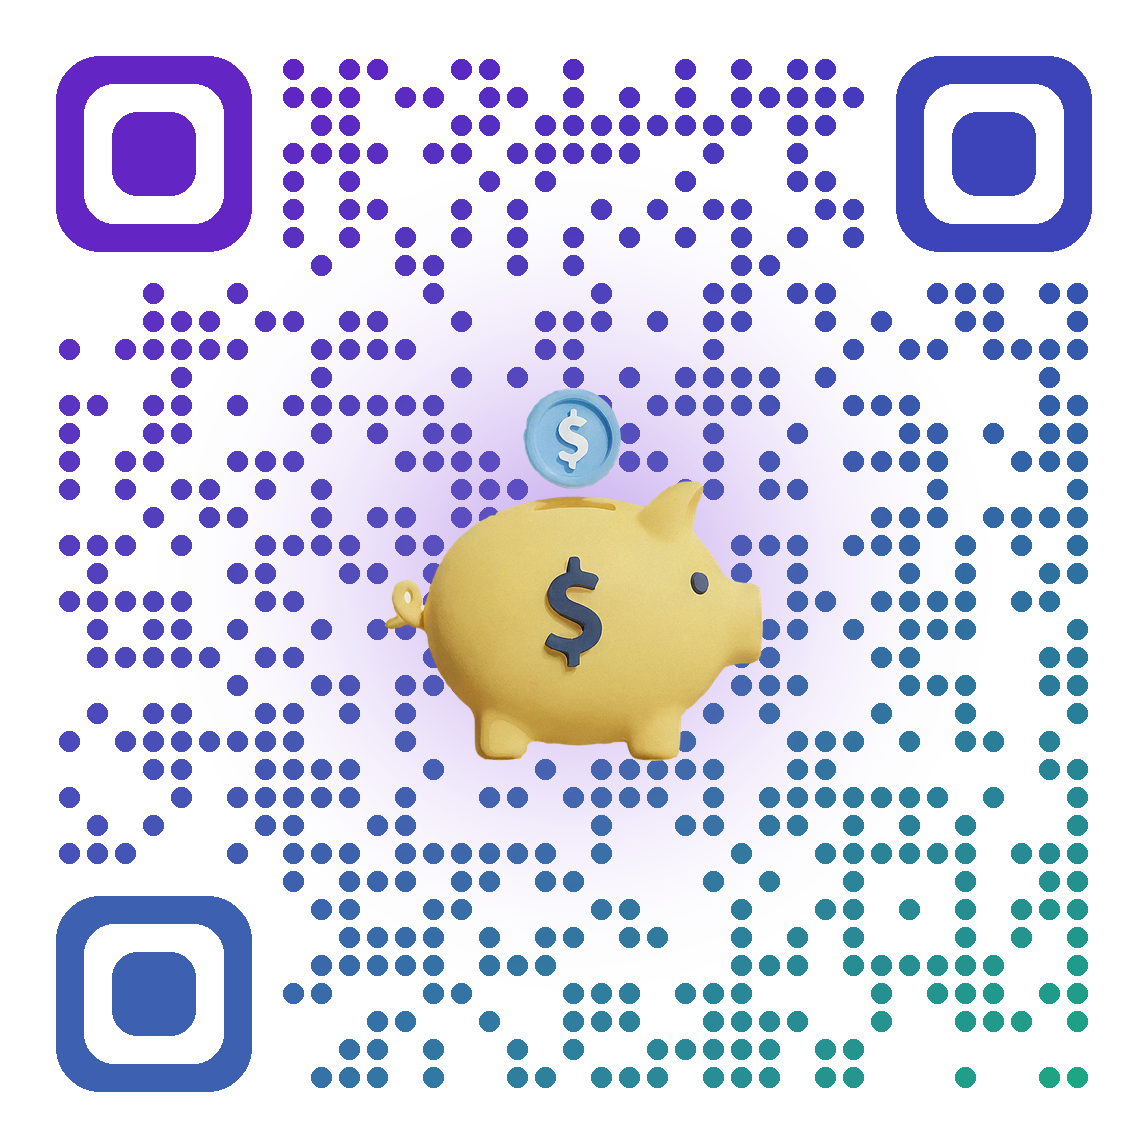
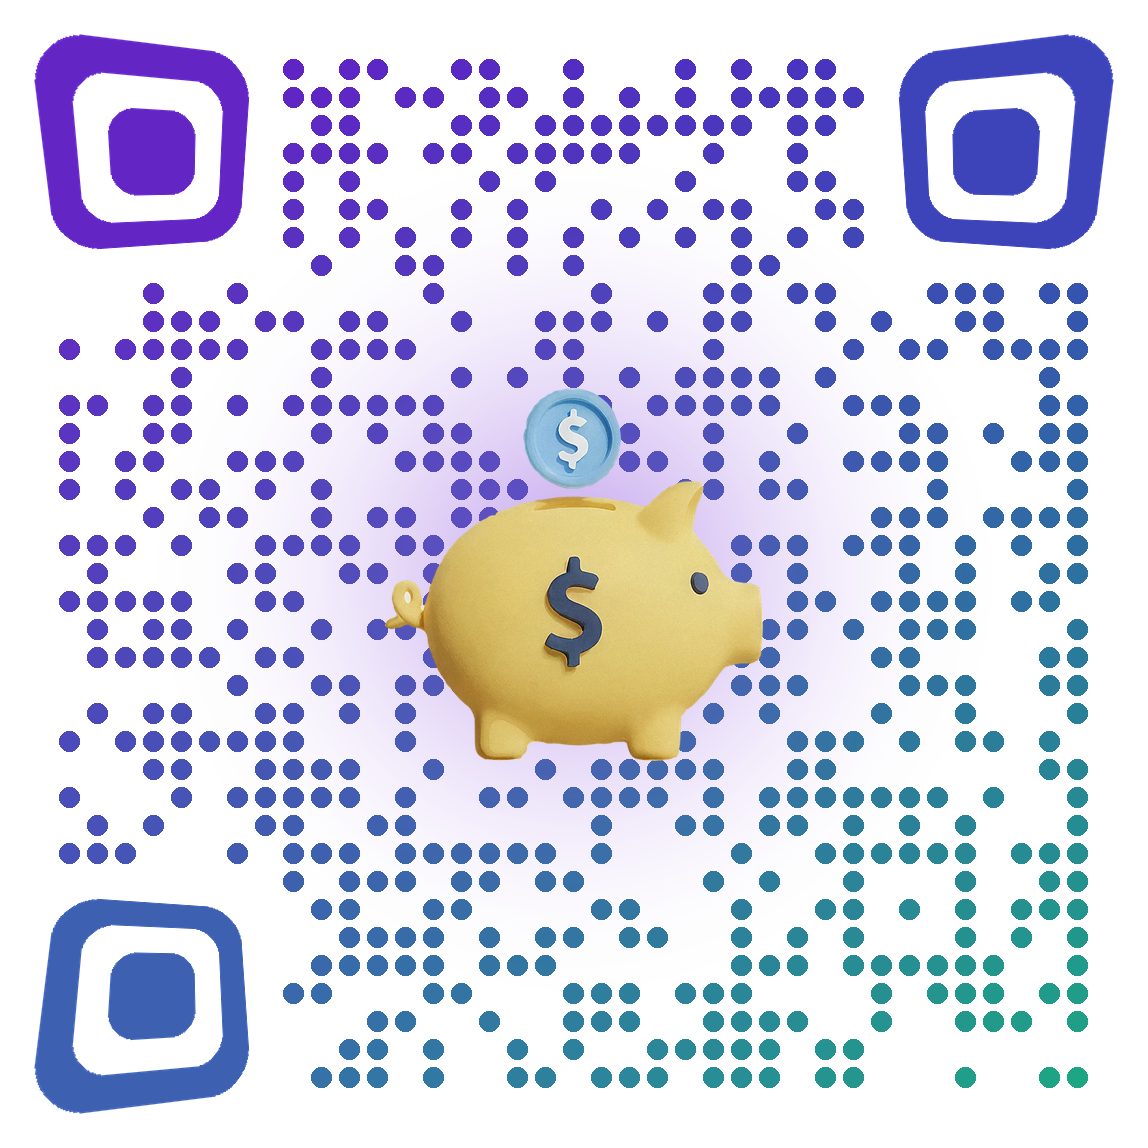
Give QR finder patterns the 3D perspective-cube look
The corner finders are now warped via a PIL perspective transform so the
outer-facing corner extends outward while the inner-facing corner pulls
in, matching the stacked-trapezoid styling in the reference.

https://claude.ai/code/session_01PZUdB1Fj36PFjZSwRqLnvy

diff --git a/generate_qr.py b/generate_qr.py
@@ -10,6 +10,7 @@ from __future__ import annotations
 import math
 from pathlib import Path
 
+import numpy as np
 import qrcode
 from qrcode.constants import ERROR_CORRECT_H
 from PIL import Image, ImageDraw, ImageFilter
@@ -65,40 +66,101 @@ def is_finder(r: int, c: int, n: int) -> bool:
     )
 
 
-def draw_finder(canvas: Image.Image, top_left_px: tuple[int, int], color: tuple[int, int, int]):
-    """Draw a rounded finder pattern: outer ring + solid inner square."""
-    x, y = top_left_px
-    size = FINDER_SIZE * MODULE_PX
-    draw = ImageDraw.Draw(canvas, "RGBA")
+def _perspective_coeffs(target_quad, source_quad):
+    """Find 8-coeff perspective mapping output target_quad -> input source_quad.
+
+    Returns coefficients suitable for PIL Image.transform(size, PERSPECTIVE, ...).
+    """
+    A = []
+    for (xt, yt), (xs, ys) in zip(target_quad, source_quad):
+        A.append([xt, yt, 1, 0, 0, 0, -xt * xs, -yt * xs])
+        A.append([0, 0, 0, xt, yt, 1, -xt * ys, -yt * ys])
+    A = np.array(A, dtype=np.float64)
+    B = np.array([c for pt in source_quad for c in pt], dtype=np.float64)
+    return np.linalg.solve(A, B)
+
+
+def draw_finder(canvas: Image.Image, top_left_px: tuple[int, int],
+                color: tuple[int, int, int], corner: str):
+    """Draw a 3D-perspective finder pattern.
+
+    Renders the standard rounded outer-ring + solid-core on its own layer,
+    then perspective-transforms it so the outer-facing corner is pushed
+    outward — producing the stacked-trapezoid / leaning-cube look.
+
+    corner: 'tl', 'tr', or 'bl' — which corner of the QR this finder is in.
+    """
+    x0, y0 = top_left_px
+    s = FINDER_SIZE * MODULE_PX
+
+    # Work on a padded canvas so the perspective transform has room.
+    pad = MODULE_PX * 2
+    canvas_size = s + 2 * pad
+    layer = Image.new("RGBA", (canvas_size, canvas_size), (0, 0, 0, 0))
+    d = ImageDraw.Draw(layer)
+
     outer_radius = int(MODULE_PX * 1.6)
-    ring_thickness = MODULE_PX  # 1 module thick
+    inner_radius = int(MODULE_PX * 1.1)
+    core_radius = int(MODULE_PX * 0.9)
+
     # outer rounded square
-    draw.rounded_rectangle(
-        [x, y, x + size - 1, y + size - 1],
+    d.rounded_rectangle(
+        [pad, pad, pad + s - 1, pad + s - 1],
         radius=outer_radius,
         fill=color + (255,),
     )
-    # knock out interior
-    inner_x = x + ring_thickness
-    inner_y = y + ring_thickness
-    inner_size = size - 2 * ring_thickness
-    inner_radius = int(MODULE_PX * 1.1)
-    draw.rounded_rectangle(
-        [inner_x, inner_y, inner_x + inner_size - 1, inner_y + inner_size - 1],
+    # knock out interior (1 module thick ring)
+    d.rounded_rectangle(
+        [pad + MODULE_PX, pad + MODULE_PX,
+         pad + s - MODULE_PX - 1, pad + s - MODULE_PX - 1],
         radius=inner_radius,
         fill=(0, 0, 0, 0),
     )
-    # solid inner 3x3
-    pad = 2 * MODULE_PX
-    core_x = x + pad
-    core_y = y + pad
-    core_size = size - 2 * pad
-    core_radius = int(MODULE_PX * 0.9)
-    draw.rounded_rectangle(
-        [core_x, core_y, core_x + core_size - 1, core_y + core_size - 1],
+    # solid 3x3 core
+    core_pad = 2 * MODULE_PX
+    d.rounded_rectangle(
+        [pad + core_pad, pad + core_pad,
+         pad + s - core_pad - 1, pad + s - core_pad - 1],
         radius=core_radius,
         fill=color + (255,),
     )
+
+    # Build target quad: push the outer-facing corner outward, pull the
+    # inner-facing corner slightly toward QR center. Creates the leaning,
+    # stacked-trapezoid look from the reference.
+    push = MODULE_PX * 1.0  # outward extension
+    pull = MODULE_PX * 0.45  # inward compression of the opposite corner
+
+    # default corners (rectangle anchored at pad..pad+s)
+    tl = [pad, pad]
+    tr = [pad + s, pad]
+    br = [pad + s, pad + s]
+    bl = [pad, pad + s]
+
+    if corner == "tl":   # outer corner = tl, inner-facing = br
+        tl = [pad - push, pad - push]
+        br = [pad + s - pull, pad + s - pull]
+    elif corner == "tr": # outer corner = tr, inner-facing = bl
+        tr = [pad + s + push, pad - push]
+        bl = [pad + pull, pad + s - pull]
+    elif corner == "bl": # outer corner = bl, inner-facing = tr
+        bl = [pad - push, pad + s + push]
+        tr = [pad + s - pull, pad + pull]
+    else:
+        raise ValueError(corner)
+
+    target_quad = [tl, tr, br, bl]
+    source_quad = [[pad, pad], [pad + s, pad], [pad + s, pad + s], [pad, pad + s]]
+    coeffs = _perspective_coeffs(target_quad, source_quad)
+
+    warped = layer.transform(
+        (canvas_size, canvas_size),
+        Image.PERSPECTIVE,
+        coeffs,
+        resample=Image.BICUBIC,
+    )
+
+    canvas.alpha_composite(warped, dest=(x0 - pad, y0 - pad))
 
 
 def render_qr(matrix) -> Image.Image:
@@ -134,13 +196,13 @@ def render_qr(matrix) -> Image.Image:
                 fill=color + (255,),
             )
 
-    # Finder patterns
-    finder_positions_modules = [
-        (0, 0),
-        (0, n - FINDER_SIZE),
-        (n - FINDER_SIZE, 0),
+    # Finder patterns (with 3D perspective lean)
+    finder_positions = [
+        (0, 0, "tl"),
+        (0, n - FINDER_SIZE, "tr"),
+        (n - FINDER_SIZE, 0, "bl"),
     ]
-    for (rm, cm) in finder_positions_modules:
+    for (rm, cm, which) in finder_positions:
         cx_local = (cm + FINDER_SIZE / 2) * MODULE_PX
         cy_local = (rm + FINDER_SIZE / 2) * MODULE_PX
         color = gradient_color(cx_local, cy_local, qr_pixel_size, qr_pixel_size)
@@ -148,6 +210,7 @@ def render_qr(matrix) -> Image.Image:
             canvas,
             (offset + cm * MODULE_PX, offset + rm * MODULE_PX),
             color,
+            which,
         )
 
     return canvas
